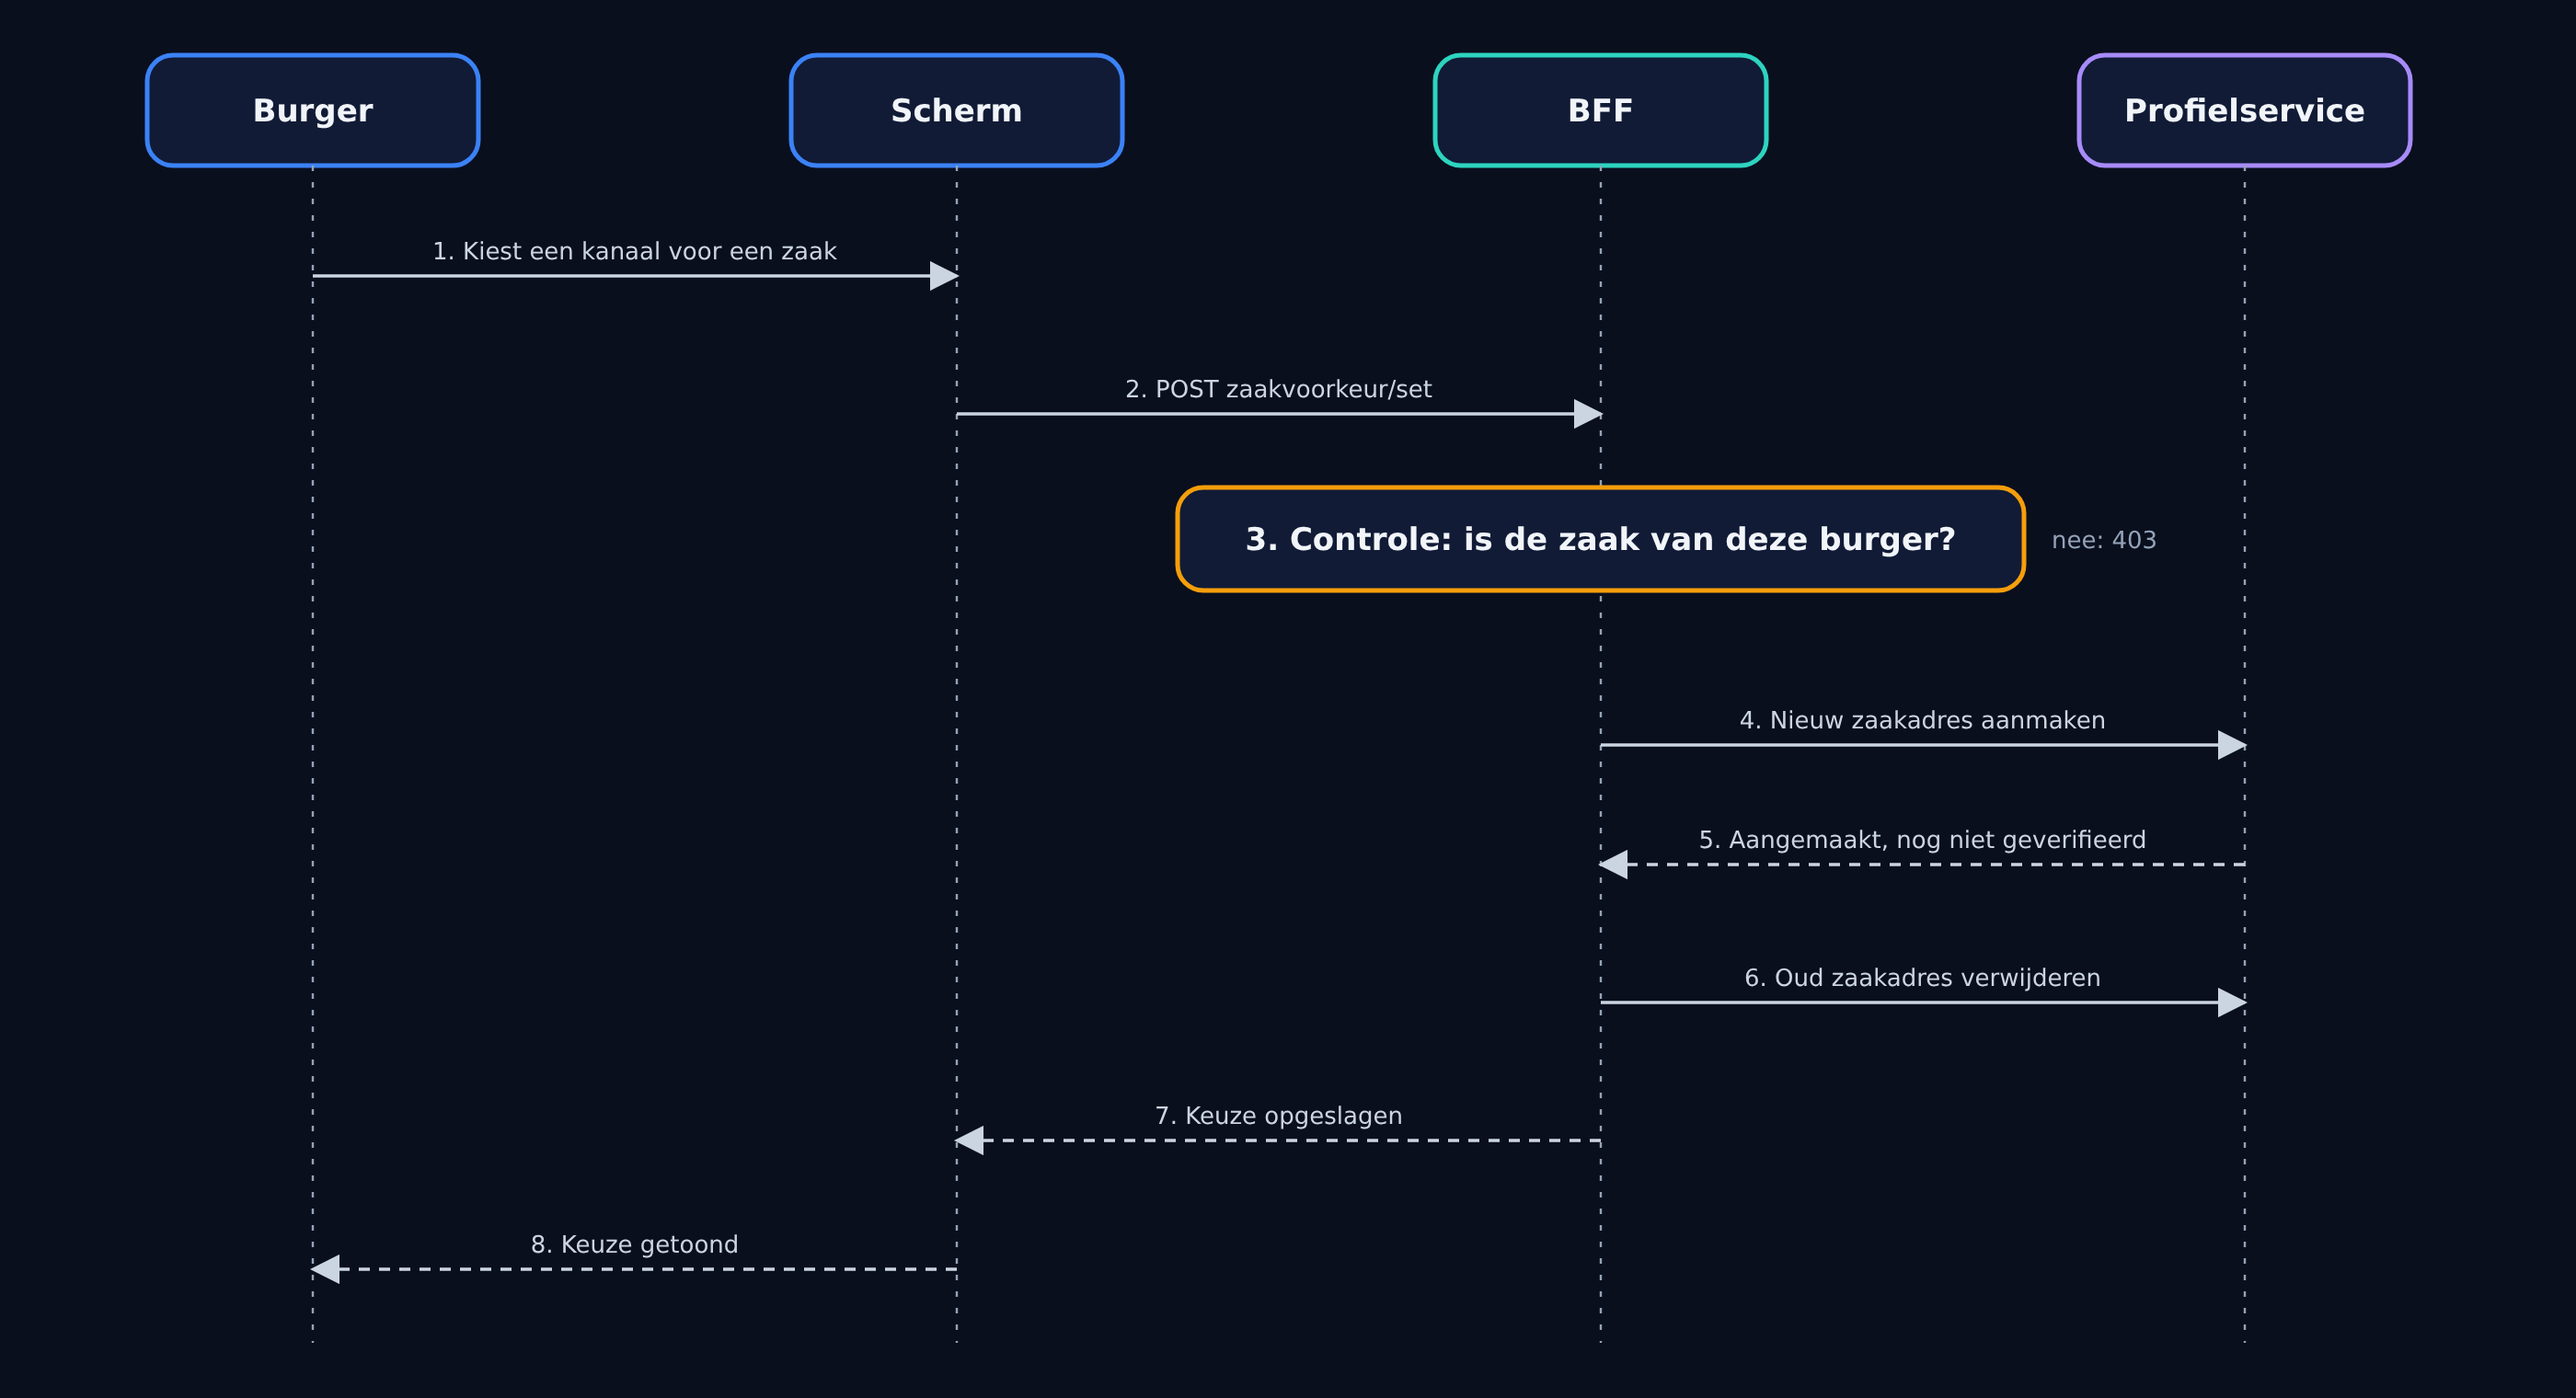
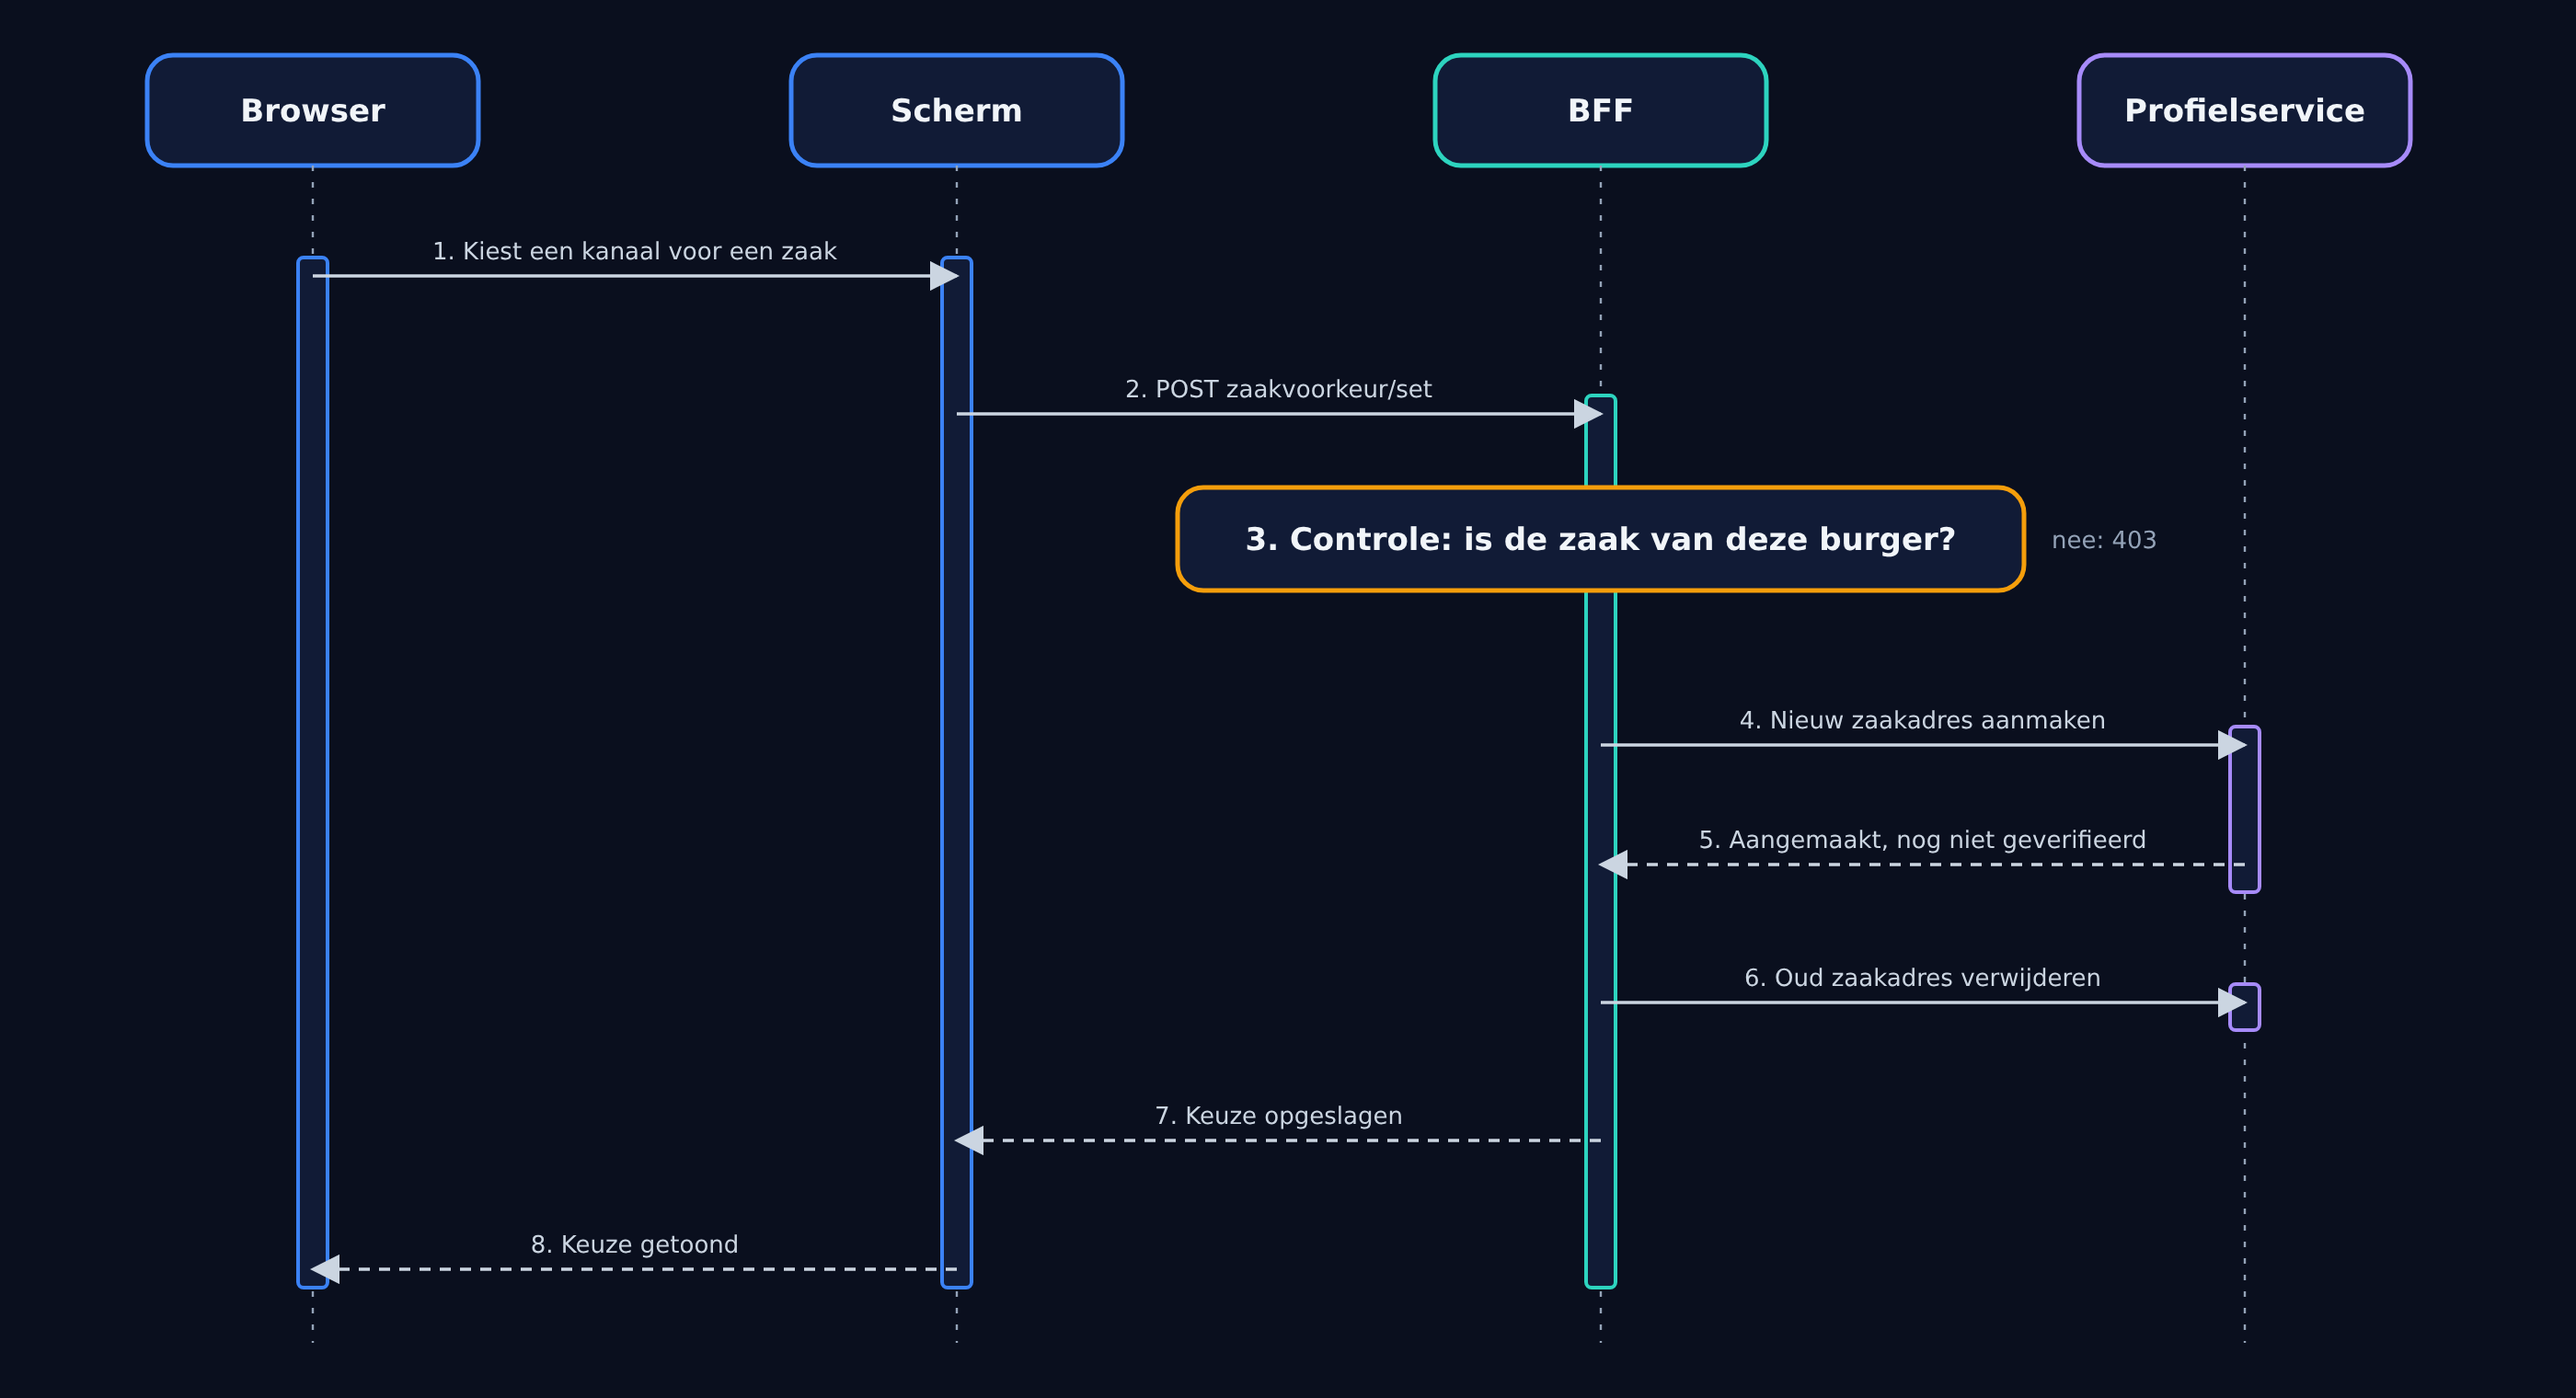
docs: sequence diagram vernieuwd en toelichting bij diagrammen

Changed region(s): [[0.0932, 0.0618, 0.1554, 0.0928]]

diff --git a/HvA-Profiel-Service/diagrammen/toelichting.md b/HvA-Profiel-Service/diagrammen/toelichting.md
@@ -1,0 +1,43 @@
+# Toelichting bij de diagrammen
+
+Alle diagrammen horen bij de feature "communicatievoorkeuren per zaak" van de Landelijke Profiel Service (team 1). De code staat in `src/server/services/klantcontact/`.
+
+## Sequence diagram: een burger kiest een kanaal voor een zaak
+
+![Sequence diagram](sequence-diagram.png)
+
+**Wat het laat zien:** de volgorde van berichten wanneer een burger voor een zaak een kanaal kiest.
+
+1. De burger kiest in de browser een kanaal voor een zaak. Het scherm stuurt een POST naar `zaakvoorkeur/set` van de BFF.
+2. De BFF controleert eerst of de zaak van de ingelogde burger is. Is dat niet zo, dan volgt een 403. Lukt de controle zelf niet, dan volgt een 503.
+3. De BFF maakt in de profielservice een nieuw zaakadres aan. Dat adres is nog niet geverifieerd en krijgt een verificatiecode.
+4. Pas daarna verwijdert de BFF het oude zaakadres.
+5. De BFF meldt dat de keuze is opgeslagen. Het scherm toont de keuze aan de burger.
+
+**Waarom in deze volgorde:** eerst aanmaken en dan verwijderen zorgt dat een mislukte aanmaak de burger niet zonder voorkeur achterlaat. De eigenaarscheck staat vooraan, zodat een burger geen voorkeur van een andermans zaak kan wijzigen (autorisatie, niet alleen authenticatie).
+
+## Architecture diagram: de keten
+
+![Architecture diagram](architecture-diagram.png)
+
+**Deel 1, burger kiest een kanaal:** de burger gebruikt de React-client van Mijn Amsterdam. Die praat met de BFF (Node en Express), die de burger via DigiD of eHerkenning (OIDC) laat inloggen. De BFF roept de profielservice (Worth) aan, die de digitale adressen in OpenKlant opslaat. In ontwikkeling vervangt een mock-server de profielservice.
+
+**Deel 2, notificaties:** een zaak in OpenZaak stuurt via Open Notificaties een melding naar de OMC. De OMC zoekt het adres in OpenKlant en laat NotifyNL de e-mail of sms versturen. De volgorde van adressen: eerst het adres van de zaak (referentie), dan het voorkeursadres, dan het standaardadres.
+
+## Component diagram: de lagen in de code
+
+![Component diagram](component-diagram.png)
+
+De router stuurt aanvragen naar de route-handlers, die HTTP in en uit afhandelen. De handlers roepen de service-functies in `communicatievoorkeuren` aan. Die gebruiken de service-config (toggles, routes, configuratie), de helpers (mapping en referentie) en de `KlantcontactBackend` interface. De profieldienst implementeert die interface en praat via HTTP met de profielservice of de mock. De module `scope-kanalen` (gestippeld) valideert dat een scope maximaal één kanaal heeft en is nog niet aan de handlers gekoppeld.
+
+## Class diagram: eigen oplossing
+
+![Class diagram](class-diagram.png)
+
+Het diagram toont de typen en modules van de eigen oplossing:
+
+- `Communicatievoorkeuren`: ophalen, zetten en verwijderen van voorkeuren.
+- `KlantcontactBackend`: de interface naar de backend, geïmplementeerd door `ProfielserviceBackend`.
+- `ContactgegevenSource`: wat de backend teruggeeft (id, type, waarde, isGeverifieerd, isDefault, referentie).
+- `GemeenteKlantcontactConfig`: de configuratie per gemeente.
+- `ScopeKanalen`, `ScopeKanaalConfig` en `ScopeKanaal`: de module voor maximaal één kanaal per scope en standaard geen kanaal (privacy by default).

diff --git a/HvA-Profiel-Service/inhoudsopgave.md b/HvA-Profiel-Service/inhoudsopgave.md
@@ -14,7 +14,8 @@
 | Architecture diagram | [architecture-diagram.png](diagrammen/architecture-diagram.png) |
 | Component diagram | [component-diagram.png](diagrammen/component-diagram.png) |
 | Class diagram (eigen oplossing) | [class-diagram.png](diagrammen/class-diagram.png) |
-| Sequence diagram (extra) | [sequence-diagram.png](diagrammen/sequence-diagram.png) |
+| Sequence diagram | [sequence-diagram.png](diagrammen/sequence-diagram.png) |
+| Toelichting bij alle diagrammen | [toelichting.md](diagrammen/toelichting.md) |
 
 ## Code
 
